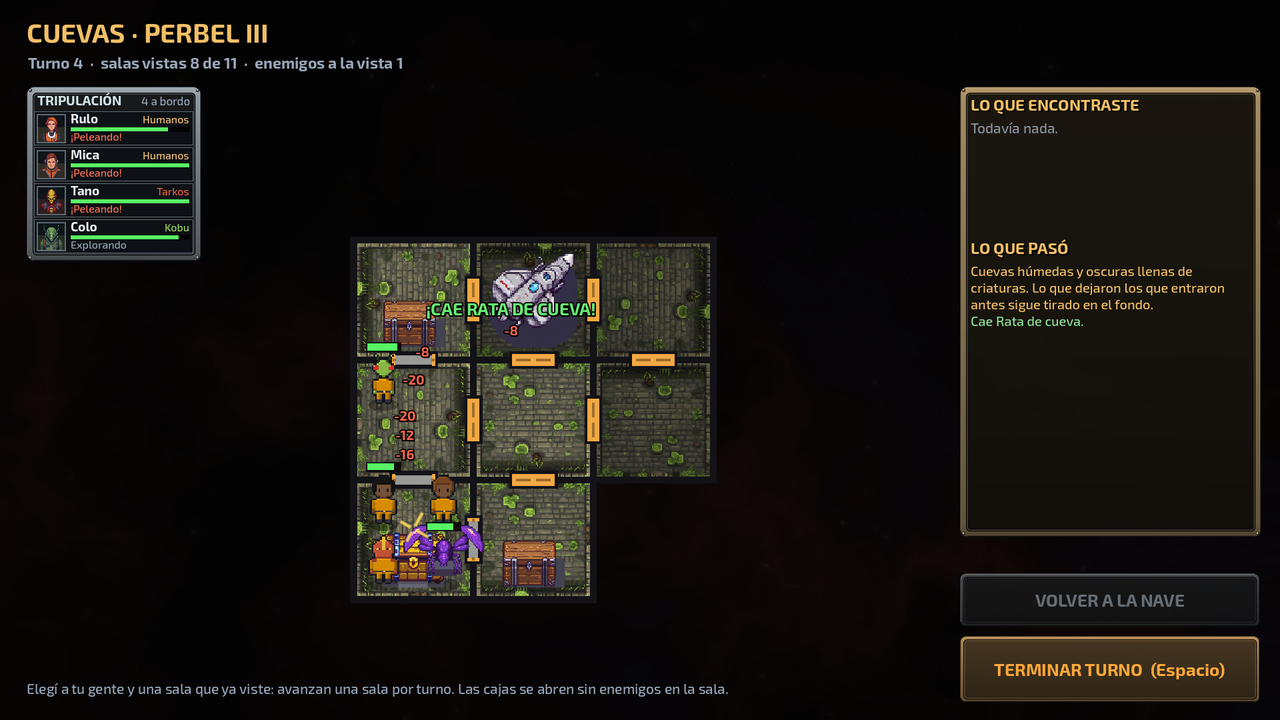
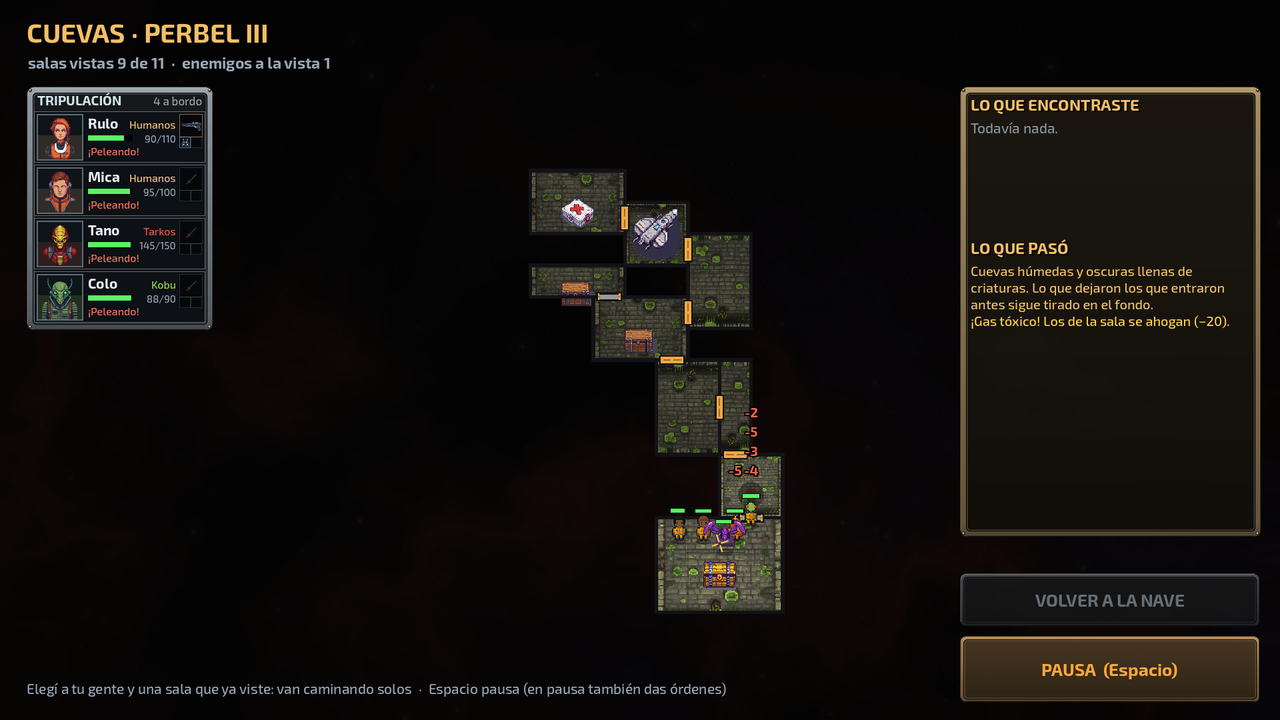
Demo v0.1.12: todo con vida

diff --git a/README.md b/README.md
@@ -8,9 +8,9 @@ antes de que ella te encuentre a vos.
 
 ## Descargar
 
-**[Descargá la demo v0.1.11](https://github.com/sebapowa/GalaxiaPoWa/releases/latest)** (Windows 10 u 11, 64 bits, 39 MB).
+**[Descargá la demo v0.1.12](https://github.com/sebapowa/GalaxiaPoWa/releases/latest)** (Windows 10 u 11, 64 bits, 39 MB).
 
-1. Bajá `GalaxiaPoWa_v0.1.11.zip` y descomprimilo.
+1. Bajá `GalaxiaPoWa_v0.1.12.zip` y descomprimilo.
 2. Abrí `Galaxia PoWa.exe`. No hace falta instalar nada.
 3. ¿Primera vez? Probá **TUTORIAL GUIADO** en el menú: una expedición de práctica que te va marcando qué hacer.
 
@@ -25,7 +25,8 @@ antes de que ella te encuentre a vos.
 - **Combate nave contra nave** por turnos o en tiempo real con pausa: energía del reactor, escudos, armas, drones, fuego, oxígeno y una tripulación que repara, cura y pilotea. Antes de zarpar podés dejar preparada la energía y el orden de las armas.
 - **Abordajes**: con un teletransporte mandás a tu gente a la nave enemiga a pelear cuerpo a cuerpo y romper sus sistemas; si matás a toda su tripulación, la nave es tuya. Algunos piratas también te abordan a vos.
 - **Equipo para la tripulación**: armas cuerpo a cuerpo y a distancia, armaduras y accesorios que se compran en mercados y barracas y cambian cómo pelea cada uno.
-- **Lugares especiales**: ruinas, minas abandonadas, cuevas, puestos piratas y estaciones a la deriva. Bajás con hasta cuatro de tu gente y lo recorrés en tiempo real, entre cajas, trampas, bichos y un jefe que cuida un tesoro.
+- **Todo con vida**: tu gente y los monstruos pelean con estocadas, tajos y disparos, caen y se desvanecen, caminan y respiran; las naves flotan, los planetas giran y hay estrellas fugaces.
+- **Lugares especiales**: ruinas, minas abandonadas, cuevas, puestos piratas y estaciones a la deriva. Bajás con hasta cuatro de tu gente y lo recorrés en tiempo real por salas de todas las formas, entre cajas, trampas, bichos y un jefe que cuida su tesoro en un salón al fondo.
 - **33 eventos** al explorar: esclavistas, cazarrecompensas, duelos, contrabandistas, ruinas, naves hospital... muchos terminan en pelea con premio.
 - **Bases y colonias**: minas, depósitos, naves de carga, terraformadores y colonias que crecen, pagan impuestos y atraen piratas.
 - **Cantinas y mercados**: rumores, informantes, gente para contratar, trueques y armas.
